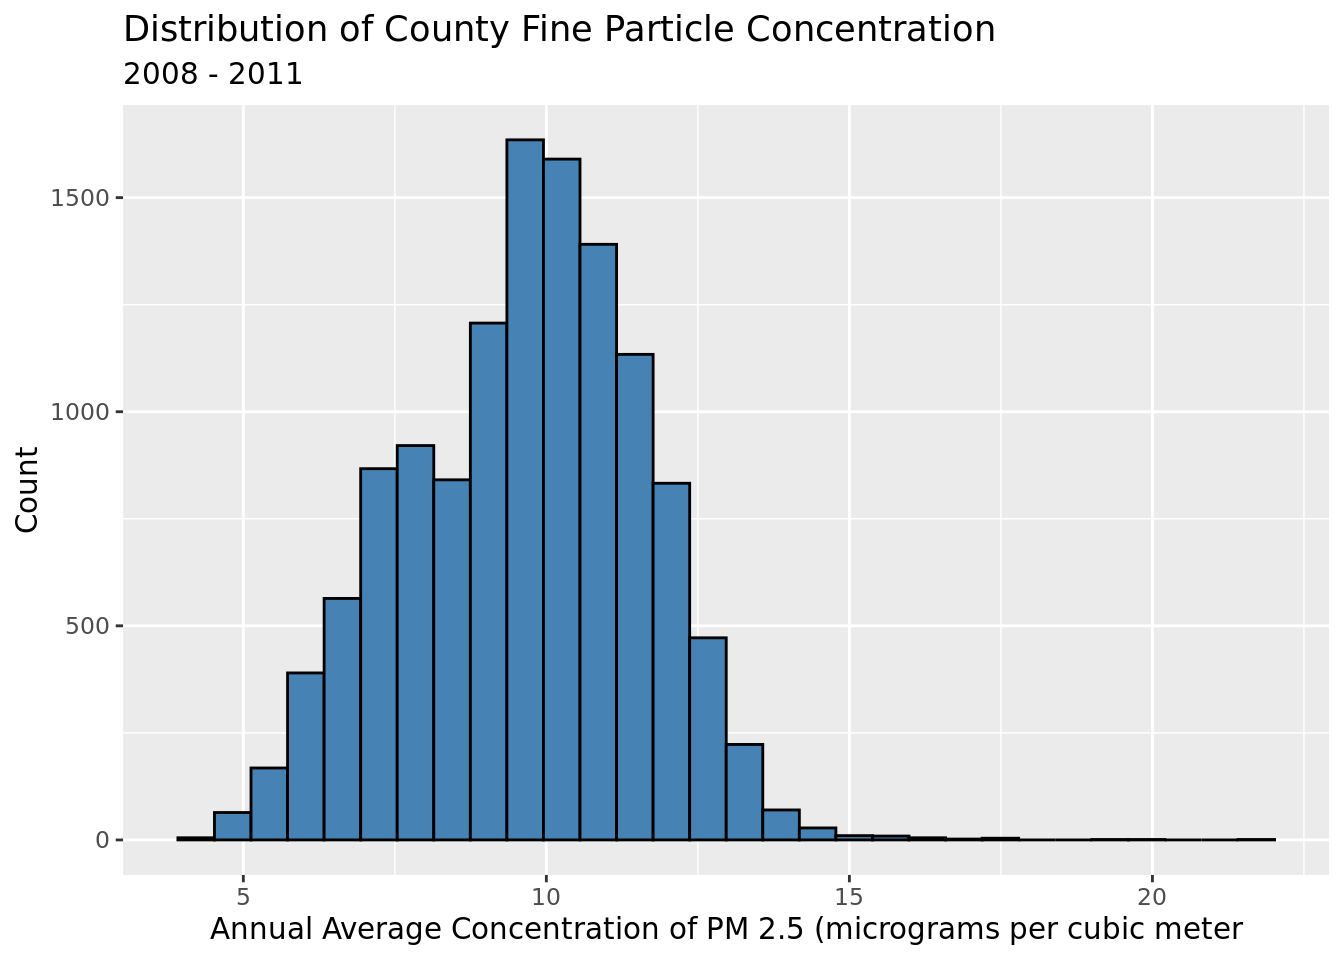
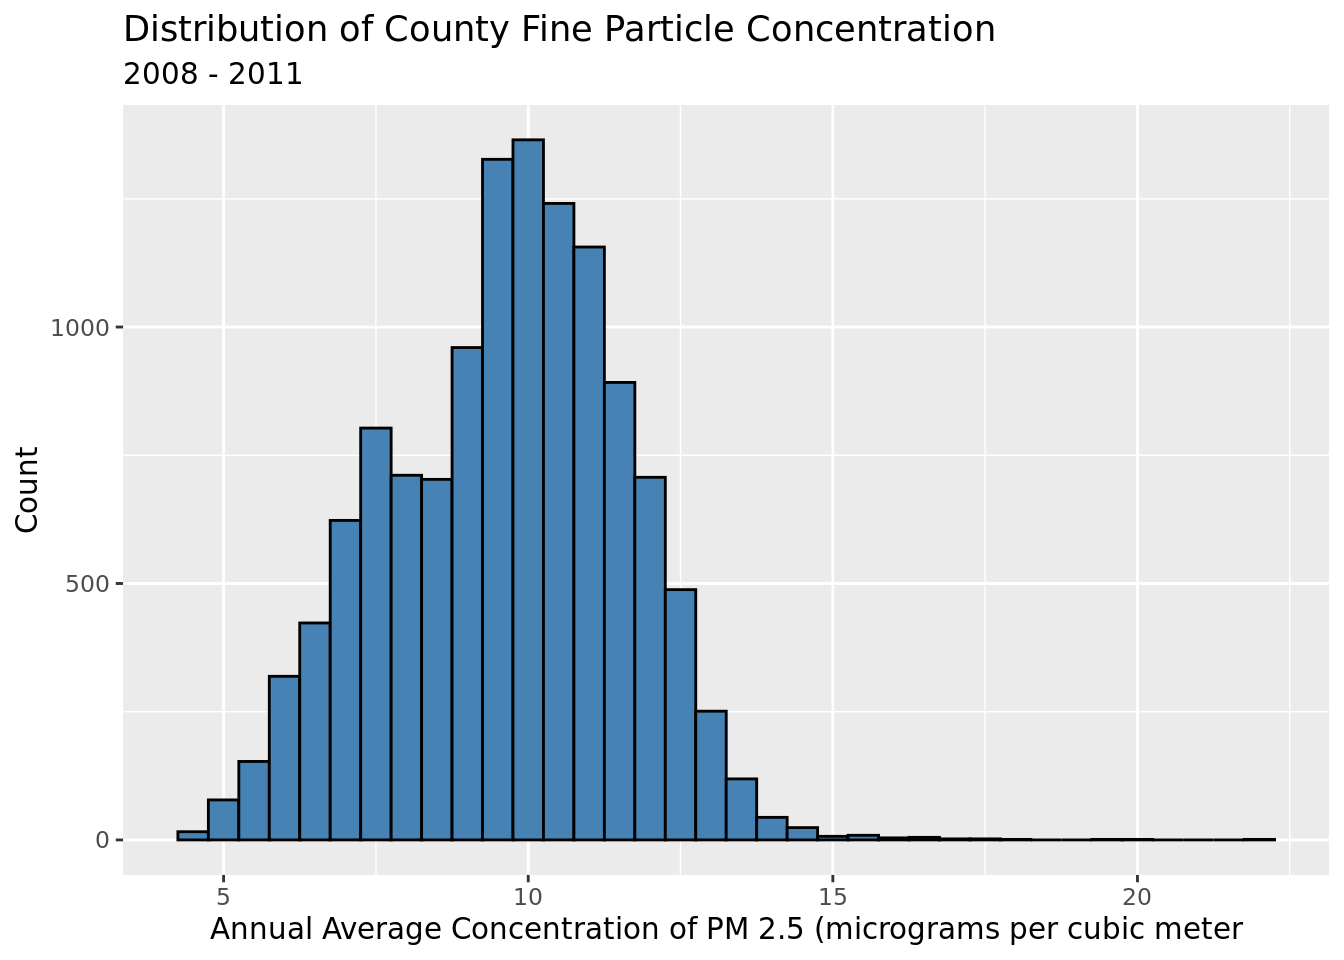
added median by region

diff --git a/docs/report.html b/docs/report.html
@@ -199,6 +199,7 @@ code span.wa { color: #60a0b0; font-weight: bold; font-style: italic; } /* Warni
 </section>
 <section id="methodology" class="level1">
 <h1>Methodology</h1>
+<p>To start our analysis, we must load in the neecessary packages and data.</p>
 <div class="cell">
 <div class="sourceCode cell-code" id="cb1"><pre class="sourceCode r code-with-copy"><code class="sourceCode r"><span id="cb1-1"><a href="#cb1-1" aria-hidden="true" tabindex="-1"></a><span class="fu">library</span>(tidyverse)</span></code><button title="Copy to Clipboard" class="code-copy-button"><i class="bi"></i></button></pre></div>
 <div class="cell-output cell-output-stderr">
@@ -229,8 +230,6 @@ code span.wa { color: #60a0b0; font-weight: bold; font-style: italic; } /* Warni
 ✖ recipes::step()   masks stats::step()
 • Learn how to get started at https://www.tidymodels.org/start/</code></pre>
 </div>
-</div>
-<div class="cell">
 <div class="sourceCode cell-code" id="cb5"><pre class="sourceCode r code-with-copy"><code class="sourceCode r"><span id="cb5-1"><a href="#cb5-1" aria-hidden="true" tabindex="-1"></a>air_quality <span class="ot">&lt;-</span> <span class="fu">read_csv</span>(<span class="at">file =</span> <span class="st">"data/Air_Quality_Measures_on_the_National_Environmental_Health_Tracking_Network (1).csv"</span>)</span></code><button title="Copy to Clipboard" class="code-copy-button"><i class="bi"></i></button></pre></div>
 <div class="cell-output cell-output-stderr">
 <pre><code>Rows: 218635 Columns: 14
@@ -244,28 +243,101 @@ num (1): Value
 ℹ Specify the column types or set `show_col_types = FALSE` to quiet this message.</code></pre>
 </div>
 </div>
+<p>The <code>air_quality</code> dataset contains several statistics on fine particle concentrations and ozone concentrations on the county level in the United States from 2001 to 2008. Our analysis will focus on the annual average ambient concentrations of PM 2.5 based on seasonal averages and daily measurement, and we will be looking at the data from 2008 to 2011.</p>
 <div class="cell">
-<div class="sourceCode cell-code" id="cb7"><pre class="sourceCode r code-with-copy"><code class="sourceCode r"><span id="cb7-1"><a href="#cb7-1" aria-hidden="true" tabindex="-1"></a>air_quality <span class="ot">&lt;-</span> air_quality <span class="sc">|&gt;</span></span>
-<span id="cb7-2"><a href="#cb7-2" aria-hidden="true" tabindex="-1"></a>  <span class="fu">filter</span>(MeasureName <span class="sc">==</span> <span class="st">"Annual average ambient concentrations of PM 2.5 in micrograms per cubic meter, based on seasonal averages and daily measurement (monitor and modeled data)"</span>) <span class="sc">|&gt;</span></span>
-<span id="cb7-3"><a href="#cb7-3" aria-hidden="true" tabindex="-1"></a>  <span class="fu">select</span>(StateName, CountyName, ReportYear, Value) <span class="sc">|&gt;</span></span>
-<span id="cb7-4"><a href="#cb7-4" aria-hidden="true" tabindex="-1"></a>  <span class="fu">rename</span>(<span class="at">avg_concentration =</span> Value)</span></code><button title="Copy to Clipboard" class="code-copy-button"><i class="bi"></i></button></pre></div>
+<div class="sourceCode cell-code" id="cb7"><pre class="sourceCode r code-with-copy"><code class="sourceCode r"><span id="cb7-1"><a href="#cb7-1" aria-hidden="true" tabindex="-1"></a>concentrations <span class="ot">&lt;-</span> air_quality <span class="sc">|&gt;</span></span>
+<span id="cb7-2"><a href="#cb7-2" aria-hidden="true" tabindex="-1"></a>  <span class="fu">filter</span>(MeasureName <span class="sc">==</span> <span class="st">"Annual average ambient concentrations of PM 2.5 in micrograms per cubic meter, based on seasonal averages and daily measurement (monitor and modeled data)"</span>,</span>
+<span id="cb7-3"><a href="#cb7-3" aria-hidden="true" tabindex="-1"></a>         ReportYear <span class="sc">&gt;=</span> <span class="dv">2008</span>) <span class="sc">|&gt;</span></span>
+<span id="cb7-4"><a href="#cb7-4" aria-hidden="true" tabindex="-1"></a>  <span class="fu">select</span>(StateName, CountyName, ReportYear, Value) <span class="sc">|&gt;</span></span>
+<span id="cb7-5"><a href="#cb7-5" aria-hidden="true" tabindex="-1"></a>  <span class="fu">rename</span>(<span class="at">avg_concentration =</span> Value)</span></code><button title="Copy to Clipboard" class="code-copy-button"><i class="bi"></i></button></pre></div>
 </div>
+<p>The distribution of average county PM 2.5 concentration in the United States from 2008-2011 can be seen with a histogram.</p>
 <div class="cell">
-<div class="sourceCode cell-code" id="cb8"><pre class="sourceCode r code-with-copy"><code class="sourceCode r"><span id="cb8-1"><a href="#cb8-1" aria-hidden="true" tabindex="-1"></a>air_quality <span class="sc">|&gt;</span></span>
-<span id="cb8-2"><a href="#cb8-2" aria-hidden="true" tabindex="-1"></a>  <span class="fu">filter</span>(ReportYear <span class="sc">&gt;=</span> <span class="dv">2008</span>) <span class="sc">|&gt;</span></span>
-<span id="cb8-3"><a href="#cb8-3" aria-hidden="true" tabindex="-1"></a>  <span class="fu">ggplot</span>(<span class="fu">aes</span>(<span class="at">x =</span> avg_concentration)) <span class="sc">+</span></span>
-<span id="cb8-4"><a href="#cb8-4" aria-hidden="true" tabindex="-1"></a>  <span class="fu">geom_histogram</span>(<span class="at">fill =</span> <span class="st">'steelblue'</span>, <span class="at">color =</span> <span class="st">'black'</span>) <span class="sc">+</span></span>
-<span id="cb8-5"><a href="#cb8-5" aria-hidden="true" tabindex="-1"></a>  <span class="fu">labs</span>(<span class="at">x =</span> <span class="st">"Annual Average Concentration of PM 2.5 (micrograms per cubic meter"</span>,</span>
-<span id="cb8-6"><a href="#cb8-6" aria-hidden="true" tabindex="-1"></a>       <span class="at">y =</span> <span class="st">"Count"</span>,</span>
-<span id="cb8-7"><a href="#cb8-7" aria-hidden="true" tabindex="-1"></a>       <span class="at">title =</span> <span class="st">"Distribution of County Fine Particle Concentration"</span>,</span>
-<span id="cb8-8"><a href="#cb8-8" aria-hidden="true" tabindex="-1"></a>       <span class="at">subtitle =</span> <span class="st">"2008 - 2011"</span>)</span></code><button title="Copy to Clipboard" class="code-copy-button"><i class="bi"></i></button></pre></div>
-<div class="cell-output cell-output-stderr">
-<pre><code>`stat_bin()` using `bins = 30`. Pick better value with `binwidth`.</code></pre>
-</div>
+<div class="sourceCode cell-code" id="cb8"><pre class="sourceCode r code-with-copy"><code class="sourceCode r"><span id="cb8-1"><a href="#cb8-1" aria-hidden="true" tabindex="-1"></a>concentrations <span class="sc">|&gt;</span></span>
+<span id="cb8-2"><a href="#cb8-2" aria-hidden="true" tabindex="-1"></a>  <span class="fu">ggplot</span>(<span class="fu">aes</span>(<span class="at">x =</span> avg_concentration)) <span class="sc">+</span></span>
+<span id="cb8-3"><a href="#cb8-3" aria-hidden="true" tabindex="-1"></a>  <span class="fu">geom_histogram</span>(<span class="at">binwidth =</span> <span class="fl">0.5</span>,</span>
+<span id="cb8-4"><a href="#cb8-4" aria-hidden="true" tabindex="-1"></a>                 <span class="at">fill =</span> <span class="st">'steelblue'</span>, </span>
+<span id="cb8-5"><a href="#cb8-5" aria-hidden="true" tabindex="-1"></a>                 <span class="at">color =</span> <span class="st">'black'</span>) <span class="sc">+</span></span>
+<span id="cb8-6"><a href="#cb8-6" aria-hidden="true" tabindex="-1"></a>  <span class="fu">labs</span>(<span class="at">x =</span> <span class="st">"Annual Average Concentration of PM 2.5 (micrograms per cubic meter"</span>,</span>
+<span id="cb8-7"><a href="#cb8-7" aria-hidden="true" tabindex="-1"></a>       <span class="at">y =</span> <span class="st">"Count"</span>,</span>
+<span id="cb8-8"><a href="#cb8-8" aria-hidden="true" tabindex="-1"></a>       <span class="at">title =</span> <span class="st">"Distribution of County Fine Particle Concentration"</span>,</span>
+<span id="cb8-9"><a href="#cb8-9" aria-hidden="true" tabindex="-1"></a>       <span class="at">subtitle =</span> <span class="st">"2008 - 2011"</span>)</span></code><button title="Copy to Clipboard" class="code-copy-button"><i class="bi"></i></button></pre></div>
 <div class="cell-output-display">
 <p><img src="report_files/figure-html/histogram-1.png" class="img-fluid" width="672"></p>
 </div>
 </div>
+<p>The distribution of annual average PM 2.5 concentrations is right skewed, so there are a few counties with large outliers. In general, concentrations range between about 4 and 22 micrograms per cubic meter.</p>
+<div class="cell">
+<div class="sourceCode cell-code" id="cb9"><pre class="sourceCode r code-with-copy"><code class="sourceCode r"><span id="cb9-1"><a href="#cb9-1" aria-hidden="true" tabindex="-1"></a>concentrations <span class="sc">|&gt;</span></span>
+<span id="cb9-2"><a href="#cb9-2" aria-hidden="true" tabindex="-1"></a>  <span class="fu">summarize</span>(<span class="at">mean_avg_concentration =</span> <span class="fu">mean</span>(avg_concentration))</span></code><button title="Copy to Clipboard" class="code-copy-button"><i class="bi"></i></button></pre></div>
+<div class="cell-output cell-output-stdout">
+<pre><code># A tibble: 1 × 1
+  mean_avg_concentration
+                   &lt;dbl&gt;
+1                   9.64</code></pre>
+</div>
+</div>
+<p>The median annual average PM 2.5 concentration is 9.64 micrograms per cubic meter. This is the typical value for a county in the United States from 2008-2011.</p>
+<p>We are exploring how air quality differs by geographic region as defined by the National Geographic Society. The regions include the Northeast, Southeast, Midwest, Southwest, and West.</p>
+<div class="cell">
+<div class="sourceCode cell-code" id="cb11"><pre class="sourceCode r code-with-copy"><code class="sourceCode r"><span id="cb11-1"><a href="#cb11-1" aria-hidden="true" tabindex="-1"></a>northeast <span class="ot">&lt;-</span> <span class="fu">c</span>(<span class="st">"Maine"</span>, <span class="st">"Vermont"</span>, <span class="st">"New Hampshire"</span>, <span class="st">"Massachusetts"</span>, </span>
+<span id="cb11-2"><a href="#cb11-2" aria-hidden="true" tabindex="-1"></a>               <span class="st">"Rhode Island"</span>, <span class="st">"Connecticut"</span>, <span class="st">"New York"</span>, <span class="st">"New Jersey"</span>,</span>
+<span id="cb11-3"><a href="#cb11-3" aria-hidden="true" tabindex="-1"></a>               <span class="st">"Pennsylvania"</span>)</span>
+<span id="cb11-4"><a href="#cb11-4" aria-hidden="true" tabindex="-1"></a></span>
+<span id="cb11-5"><a href="#cb11-5" aria-hidden="true" tabindex="-1"></a>southeast <span class="ot">&lt;-</span> <span class="fu">c</span>(<span class="st">"Delaware"</span>, <span class="st">"Maryland"</span>, <span class="st">"West Virginia"</span>, <span class="st">"Virginia"</span>, </span>
+<span id="cb11-6"><a href="#cb11-6" aria-hidden="true" tabindex="-1"></a>               <span class="st">"North Carolina"</span>, <span class="st">"District of Columbia"</span>, <span class="st">"Kentucky"</span>,</span>
+<span id="cb11-7"><a href="#cb11-7" aria-hidden="true" tabindex="-1"></a>               <span class="st">"Tennessee"</span>, <span class="st">"South Carolina"</span>, <span class="st">"Georgia"</span>, <span class="st">"Florida"</span>, </span>
+<span id="cb11-8"><a href="#cb11-8" aria-hidden="true" tabindex="-1"></a>               <span class="st">"Alabama"</span>, <span class="st">"Mississippi"</span>, <span class="st">"Arkansas"</span>, <span class="st">"Louisiana"</span>)</span>
+<span id="cb11-9"><a href="#cb11-9" aria-hidden="true" tabindex="-1"></a></span>
+<span id="cb11-10"><a href="#cb11-10" aria-hidden="true" tabindex="-1"></a>midwest <span class="ot">&lt;-</span> <span class="fu">c</span>(<span class="st">"Ohio"</span>, <span class="st">"Indiana"</span>, <span class="st">"Michigan"</span>, <span class="st">"Wisconsin"</span>, <span class="st">"Illinois"</span>,</span>
+<span id="cb11-11"><a href="#cb11-11" aria-hidden="true" tabindex="-1"></a>             <span class="st">"Minnesota"</span>, <span class="st">"Iowa"</span>, <span class="st">"Missouri"</span>, <span class="st">"North Dakota"</span>, </span>
+<span id="cb11-12"><a href="#cb11-12" aria-hidden="true" tabindex="-1"></a>             <span class="st">"South Dakota"</span>, <span class="st">"Nebraska"</span>, <span class="st">"Kansas"</span>)</span>
+<span id="cb11-13"><a href="#cb11-13" aria-hidden="true" tabindex="-1"></a></span>
+<span id="cb11-14"><a href="#cb11-14" aria-hidden="true" tabindex="-1"></a>southwest <span class="ot">&lt;-</span> <span class="fu">c</span>(<span class="st">"Arizona"</span>, <span class="st">"New Mexico"</span>, <span class="st">"Oklahoma"</span>, <span class="st">"Texas"</span>)</span>
+<span id="cb11-15"><a href="#cb11-15" aria-hidden="true" tabindex="-1"></a></span>
+<span id="cb11-16"><a href="#cb11-16" aria-hidden="true" tabindex="-1"></a>west <span class="ot">&lt;-</span> <span class="fu">c</span>(<span class="st">"Montana"</span>, <span class="st">"Wyoming"</span>, <span class="st">"Colorado"</span>, <span class="st">"Utah"</span>, <span class="st">"Idaho"</span>, <span class="st">"Nevada"</span>,</span>
+<span id="cb11-17"><a href="#cb11-17" aria-hidden="true" tabindex="-1"></a>          <span class="st">"Washington"</span>, <span class="st">"Oregon"</span>, <span class="st">"California"</span>, <span class="st">"Hawaii"</span>, <span class="st">"Alaska"</span>)</span>
+<span id="cb11-18"><a href="#cb11-18" aria-hidden="true" tabindex="-1"></a></span>
+<span id="cb11-19"><a href="#cb11-19" aria-hidden="true" tabindex="-1"></a>concentrations <span class="ot">&lt;-</span> concentrations <span class="sc">|&gt;</span></span>
+<span id="cb11-20"><a href="#cb11-20" aria-hidden="true" tabindex="-1"></a>  <span class="fu">mutate</span>(<span class="at">Region =</span> <span class="fu">case_when</span>(</span>
+<span id="cb11-21"><a href="#cb11-21" aria-hidden="true" tabindex="-1"></a>    StateName <span class="sc">%in%</span> northeast <span class="sc">~</span> <span class="st">"Northeast"</span>,</span>
+<span id="cb11-22"><a href="#cb11-22" aria-hidden="true" tabindex="-1"></a>    StateName <span class="sc">%in%</span> southeast <span class="sc">~</span> <span class="st">"Southeast"</span>,</span>
+<span id="cb11-23"><a href="#cb11-23" aria-hidden="true" tabindex="-1"></a>    StateName <span class="sc">%in%</span> midwest <span class="sc">~</span> <span class="st">"Midwest"</span>,</span>
+<span id="cb11-24"><a href="#cb11-24" aria-hidden="true" tabindex="-1"></a>    StateName <span class="sc">%in%</span> southwest <span class="sc">~</span> <span class="st">"Southwest"</span>,</span>
+<span id="cb11-25"><a href="#cb11-25" aria-hidden="true" tabindex="-1"></a>    StateName <span class="sc">%in%</span> west <span class="sc">~</span> <span class="st">"West"</span></span>
+<span id="cb11-26"><a href="#cb11-26" aria-hidden="true" tabindex="-1"></a>    )</span>
+<span id="cb11-27"><a href="#cb11-27" aria-hidden="true" tabindex="-1"></a>  )</span></code><button title="Copy to Clipboard" class="code-copy-button"><i class="bi"></i></button></pre></div>
+</div>
+<p>Using this division of regions, the Southeast and Midwest regions have the most counties, while the Northeast region has the least. However, all regions have at least 800 counties.</p>
+<div class="cell">
+<div class="sourceCode cell-code" id="cb12"><pre class="sourceCode r code-with-copy"><code class="sourceCode r"><span id="cb12-1"><a href="#cb12-1" aria-hidden="true" tabindex="-1"></a>concentrations <span class="sc">|&gt;</span></span>
+<span id="cb12-2"><a href="#cb12-2" aria-hidden="true" tabindex="-1"></a>  <span class="fu">ggplot</span>(<span class="fu">aes</span>(<span class="at">x =</span> <span class="fu">fct_infreq</span>(Region))) <span class="sc">+</span></span>
+<span id="cb12-3"><a href="#cb12-3" aria-hidden="true" tabindex="-1"></a>  <span class="fu">geom_bar</span>(<span class="at">fill =</span> <span class="st">'steelblue'</span>, <span class="at">color =</span> <span class="st">'black'</span>) <span class="sc">+</span></span>
+<span id="cb12-4"><a href="#cb12-4" aria-hidden="true" tabindex="-1"></a>  <span class="fu">labs</span>(<span class="at">x =</span> <span class="st">"Region"</span>,</span>
+<span id="cb12-5"><a href="#cb12-5" aria-hidden="true" tabindex="-1"></a>       <span class="at">y =</span> <span class="st">"Number of Counties in Dataset"</span>,</span>
+<span id="cb12-6"><a href="#cb12-6" aria-hidden="true" tabindex="-1"></a>       <span class="at">title =</span> <span class="st">"Counties by Region"</span>)</span></code><button title="Copy to Clipboard" class="code-copy-button"><i class="bi"></i></button></pre></div>
+<div class="cell-output-display">
+<p><img src="report_files/figure-html/num-counties-1.png" class="img-fluid" width="672"></p>
+</div>
+</div>
+<p>We compared the median annual concentration of fine particles for counties in each region to get an initial look of the regions suffering from poor air quality the most.</p>
+<div class="cell">
+<div class="sourceCode cell-code" id="cb13"><pre class="sourceCode r code-with-copy"><code class="sourceCode r"><span id="cb13-1"><a href="#cb13-1" aria-hidden="true" tabindex="-1"></a>concentrations <span class="sc">|&gt;</span></span>
+<span id="cb13-2"><a href="#cb13-2" aria-hidden="true" tabindex="-1"></a>  <span class="fu">group_by</span>(Region) <span class="sc">|&gt;</span></span>
+<span id="cb13-3"><a href="#cb13-3" aria-hidden="true" tabindex="-1"></a>  <span class="fu">summarize</span>(<span class="at">median_concen =</span> <span class="fu">median</span>(avg_concentration)) <span class="sc">|&gt;</span></span>
+<span id="cb13-4"><a href="#cb13-4" aria-hidden="true" tabindex="-1"></a>  <span class="fu">arrange</span>(<span class="sc">-</span>median_concen)</span></code><button title="Copy to Clipboard" class="code-copy-button"><i class="bi"></i></button></pre></div>
+<div class="cell-output cell-output-stdout">
+<pre><code># A tibble: 5 × 2
+  Region    median_concen
+  &lt;chr&gt;             &lt;dbl&gt;
+1 Southeast         10.6 
+2 Midwest            9.80
+3 Northeast          9.31
+4 Southwest          8.32
+5 West               6.97</code></pre>
+</div>
+</div>
+<p>The Southeast region has the greatest median concentration of PM 2.5 particles (10.6 micrograms per cubic meter), while the West region has the lowest (6.97 micrograms per cubic meter).</p>
 <ul>
 <li>Comparison: We’ll compare the results of our air pollution survey with Census population data, population increase, total land area, number of firms, per capita income, metropolitan area (boolean), and population over 65</li>
 </ul>
